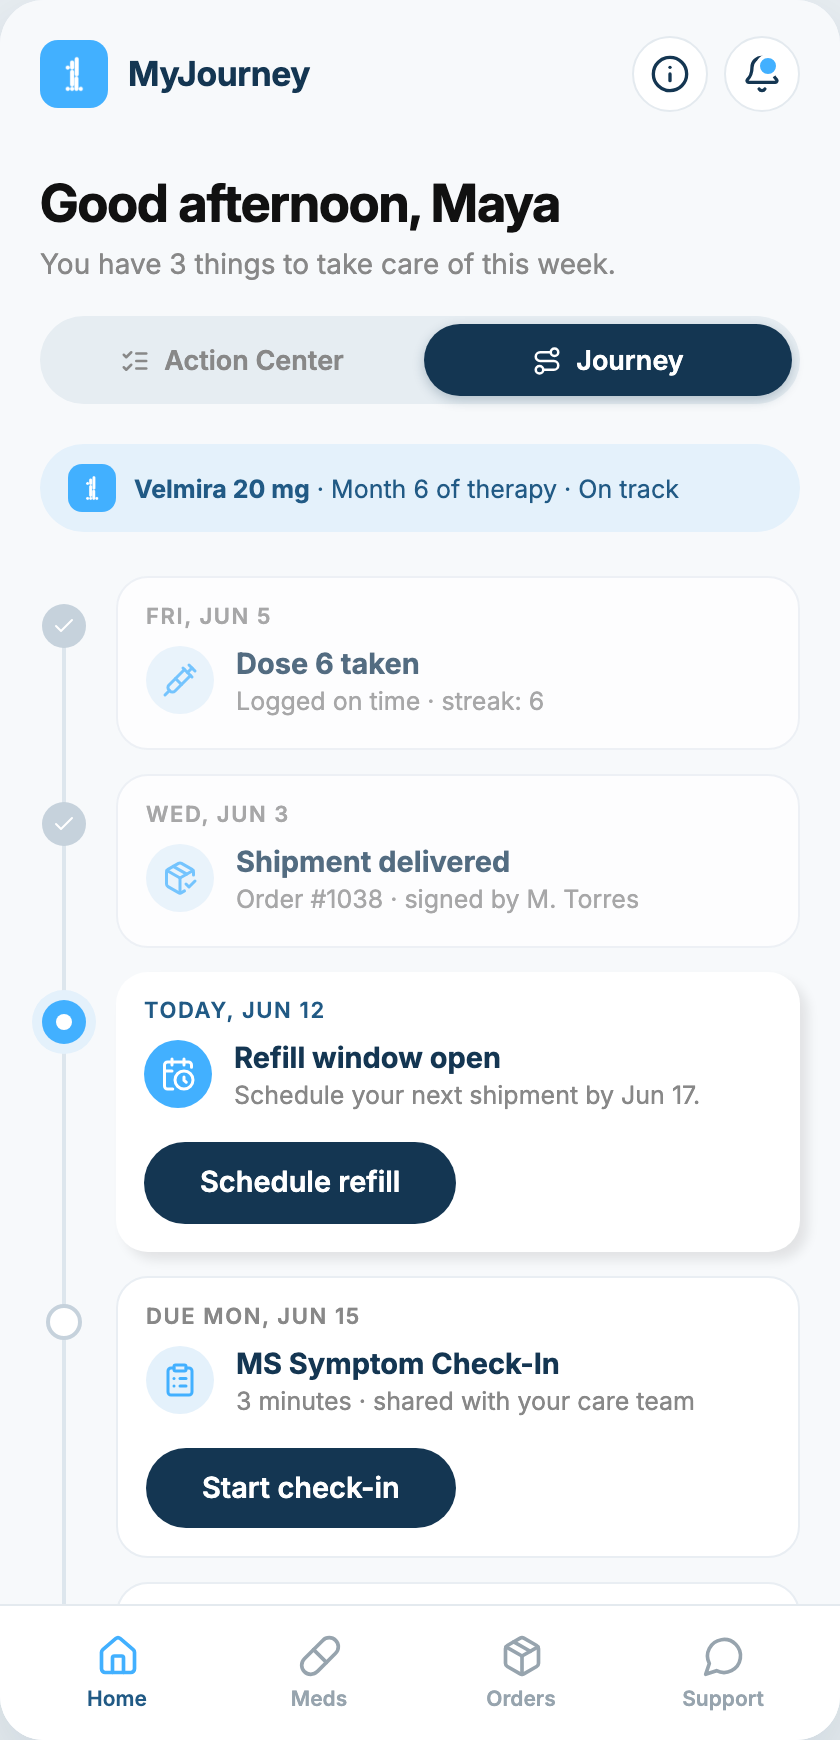
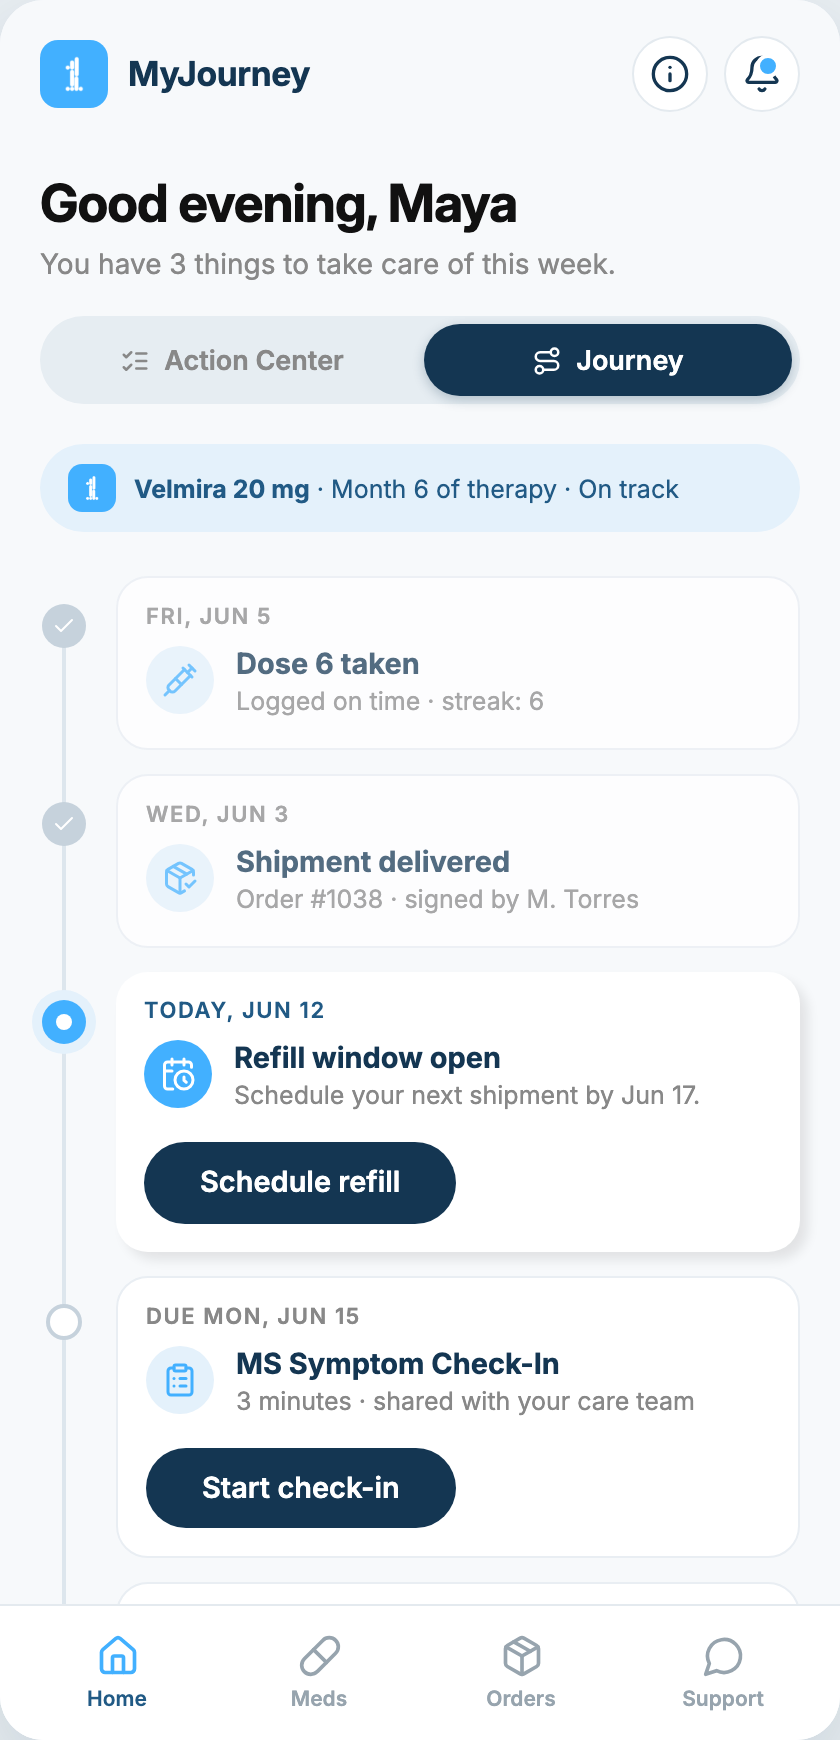
feat(notifications): the bell dot now opens a notifications sheet
A badge on a button is a promise. Tapping the bell lists the open
items behind the dot, each deep-linking to its flow, with an
all-caught-up state once the list is clear.

Changed region(s): [[0.2167, 0.0931, 0.681, 0.1552]]

diff --git a/src/flows/NotificationsSheet.tsx b/src/flows/NotificationsSheet.tsx
@@ -1,0 +1,75 @@
+import { cal } from "../lib/calendar";
+import type { NavTarget } from "../lib/nav";
+import { useMJ } from "../store/store";
+import { Ic, type IconName } from "../components/Ic";
+
+interface NotificationsSheetProps {
+  onClose: () => void;
+  /** Close the sheet and jump to the item's flow. */
+  onOpen: (target: NavTarget) => void;
+}
+
+/* The bell dot promises something behind it — this sheet is that something:
+   the open items, each one tap away from its flow. */
+export function NotificationsSheet({ onClose, onOpen }: NotificationsSheetProps) {
+  const s = useMJ();
+
+  const items: { icon: IconName; title: string; sub: string; target: NavTarget }[] = [];
+  if (!s.refill.scheduled) {
+    items.push({
+      icon: "calendar-clock",
+      title: "Refill window open",
+      sub: `Schedule by ${cal.scheduleBy} to stay on track`,
+      target: "refill",
+    });
+  }
+  if (!s.tasks.checkin) {
+    items.push({
+      icon: "clipboard-list",
+      title: "MS Symptom Check-In",
+      sub: `Due ${cal.checkinDue} · 3 min`,
+      target: "checkin",
+    });
+  }
+  if (!s.tasks.copay) {
+    items.push({
+      icon: "credit-card",
+      title: "Co-pay assistance renewal",
+      sub: `Expires ${cal.copayExpires} · keeps your co-pay at $0`,
+      target: "copay",
+    });
+  }
+
+  return (
+    <div className="mj-sheetwrap" onClick={onClose}>
+      <div className="mj-sheet" onClick={(e) => e.stopPropagation()}>
+        <div className="mj-sheethandle" />
+        <button type="button" className="mj-sheetclose" onClick={onClose} aria-label="Close">
+          <Ic name="x" size={18} color="var(--oj-navy)" />
+        </button>
+        <h3 className="mj-sheettitle">Notifications</h3>
+        {items.length > 0 ? (
+          <div className="mj-stack" style={{ marginBottom: 6 }}>
+            {items.map((it) => (
+              <button key={it.target} type="button" className="mj-taskcard tap" onClick={() => onOpen(it.target)}>
+                <span className="mj-taskicon">
+                  <Ic name={it.icon} size={20} color="#fff" />
+                </span>
+                <div className="mj-taskmeta">
+                  <p className="mj-tasktitle">{it.title}</p>
+                  <p className="mj-tasksub">{it.sub}</p>
+                </div>
+                <Ic name="chevron-right" size={18} color="var(--oj-gray)" />
+              </button>
+            ))}
+          </div>
+        ) : (
+          <div className="mj-alldone" style={{ marginBottom: 6 }}>
+            <Ic name="circle-check" size={18} color="var(--oj-blue)" />
+            <span>You&rsquo;re all caught up. Next dose {cal.nextDose}.</span>
+          </div>
+        )}
+      </div>
+    </div>
+  );
+}

diff --git a/src/App.tsx b/src/App.tsx
@@ -10,10 +10,12 @@ import { RefillFlow } from "./flows/RefillFlow";
 import { CheckinFlow } from "./flows/CheckinFlow";
 import { CopaySheet } from "./flows/CopaySheet";
 import { AboutOverlay } from "./flows/AboutOverlay";
+import { NotificationsSheet } from "./flows/NotificationsSheet";
 
 export default function App() {
   const [route, setRoute] = useState<Route>("home");
   const [showCopay, setShowCopay] = useState(false);
+  const [showNotifs, setShowNotifs] = useState(false);
   // The About overlay is the demo's introduction: open it on first visit.
   const [showAbout, setShowAbout] = useState(() => !store.get().aboutSeen);
   const [toast, setToast] = useState<string | null>(null);
@@ -34,6 +36,12 @@ export default function App() {
   }
 
   const onInfo = () => setShowAbout(true);
+  const onBell = () => setShowNotifs(true);
+
+  function openFromNotifs(target: NavTarget) {
+    setShowNotifs(false);
+    navigate(target);
+  }
 
   function closeAbout() {
     store.set({ aboutSeen: true });
@@ -52,13 +60,14 @@ export default function App() {
     <div className="mj-frame">
       {/* key remounts the screen per route: scroll resets and the fade-in replays */}
       <div className="mj-device" key={route}>
-        {route === "home" && <HomeScreen navigate={navigate} onInfo={onInfo} />}
+        {route === "home" && <HomeScreen navigate={navigate} onInfo={onInfo} onBell={onBell} />}
         {route === "refill" && <RefillFlow navigate={navigate} />}
         {route === "checkin" && <CheckinFlow navigate={navigate} />}
-        {route === "meds" && <MedsScreen navigate={navigate} onInfo={onInfo} />}
-        {route === "orders" && <OrdersScreen navigate={navigate} onInfo={onInfo} />}
-        {route === "support" && <SupportScreen navigate={navigate} onInfo={onInfo} />}
+        {route === "meds" && <MedsScreen navigate={navigate} onInfo={onInfo} onBell={onBell} />}
+        {route === "orders" && <OrdersScreen navigate={navigate} onInfo={onInfo} onBell={onBell} />}
+        {route === "support" && <SupportScreen navigate={navigate} onInfo={onInfo} onBell={onBell} />}
         {showCopay && <CopaySheet onClose={() => setShowCopay(false)} />}
+        {showNotifs && <NotificationsSheet onClose={() => setShowNotifs(false)} onOpen={openFromNotifs} />}
         {showAbout && <AboutOverlay onClose={closeAbout} onReset={resetDemo} />}
         {toast && (
           <div className="mj-toast" role="status">

diff --git a/e2e/app.spec.ts b/e2e/app.spec.ts
@@ -117,6 +117,17 @@ test("completing all three tasks clears the bell and shows all caught up", async
   await expect(page.locator(".mj-bell-dot")).toHaveCount(0);
   await expect(page.locator(".mj-alldone")).toContainText(`Next dose ${label(8)}`);
   await expect(page.locator(".mj-greet-sub")).toContainText("Nothing needs your attention");
+  // The bell still answers, even with nothing left to do.
+  await page.getByRole("button", { name: "Notifications" }).click();
+  await expect(page.locator(".mj-sheetwrap")).toContainText("all caught up");
+});
+
+test("bell opens notifications and deep-links to a task", async ({ page }) => {
+  await page.getByRole("button", { name: "Notifications" }).click();
+  await expect(page.getByRole("heading", { name: "Notifications" })).toBeVisible();
+  await expect(page.locator(".mj-sheetwrap .mj-taskcard")).toHaveCount(3);
+  await page.locator(".mj-sheetwrap").getByText("MS Symptom Check-In").click();
+  await expect(page.getByText("Question 1 of 4")).toBeVisible();
 });
 
 test("state survives a reload", async ({ page }) => {

diff --git a/src/components/AppBar.tsx b/src/components/AppBar.tsx
@@ -2,7 +2,7 @@ import { openTaskCount, useMJ } from "../store/store";
 import { Ic } from "./Ic";
 import mark from "../assets/mark.png";
 
-export function AppBar({ onInfo }: { onInfo: () => void }) {
+export function AppBar({ onInfo, onBell }: { onInfo: () => void; onBell: () => void }) {
   const s = useMJ();
   const open = openTaskCount(s);
   return (
@@ -17,7 +17,7 @@ export function AppBar({ onInfo }: { onInfo: () => void }) {
         <button className="mj-bell" type="button" aria-label="About this prototype" onClick={onInfo}>
           <Ic name="info" size={20} color="var(--oj-navy)" />
         </button>
-        <button className="mj-bell" type="button" aria-label="Notifications">
+        <button className="mj-bell" type="button" aria-label="Notifications" onClick={onBell}>
           <Ic name="bell" size={20} color="var(--oj-navy)" />
           {open > 0 && <span className="mj-bell-dot" />}
         </button>

diff --git a/src/screens/HomeScreen.tsx b/src/screens/HomeScreen.tsx
@@ -256,12 +256,12 @@ function JourneyHome({ navigate }: { navigate: Navigate }) {
   );
 }
 
-export function HomeScreen({ navigate, onInfo }: { navigate: Navigate; onInfo: () => void }) {
+export function HomeScreen({ navigate, onInfo, onBell }: { navigate: Navigate; onInfo: () => void; onBell: () => void }) {
   const s = useMJ();
   const open = openTaskCount(s);
   return (
     <div className="mj-screen">
-      <AppBar onInfo={onInfo} />
+      <AppBar onInfo={onInfo} onBell={onBell} />
       <div className="mj-body scroll">
         <h1 className="mj-greet">{greeting()}, Maya</h1>
         <p className="mj-greet-sub">

diff --git a/src/screens/MedsScreen.tsx b/src/screens/MedsScreen.tsx
@@ -7,7 +7,7 @@ import { Ic } from "../components/Ic";
 import { Ring } from "../components/Ring";
 import { SectionLabel } from "../components/SectionLabel";
 
-export function MedsScreen({ navigate, onInfo }: { navigate: Navigate; onInfo: () => void }) {
+export function MedsScreen({ navigate, onInfo, onBell }: { navigate: Navigate; onInfo: () => void; onBell: () => void }) {
   const s = useMJ();
   const doseHistory: [string, string, string][] = [
     ["Dose 6", cal.dose6, "On time"],
@@ -17,7 +17,7 @@ export function MedsScreen({ navigate, onInfo }: { navigate: Navigate; onInfo: (
   ];
   return (
     <div className="mj-screen">
-      <AppBar onInfo={onInfo} />
+      <AppBar onInfo={onInfo} onBell={onBell} />
       <div className="mj-body scroll">
         <h1 className="mj-greet">Medications</h1>
         <p className="mj-greet-sub">Managed by ONE Journey Specialty Pharmacy</p>

diff --git a/src/screens/OrdersScreen.tsx b/src/screens/OrdersScreen.tsx
@@ -7,7 +7,7 @@ import { Ic } from "../components/Ic";
 import { SectionLabel } from "../components/SectionLabel";
 import { Stepper } from "../components/Stepper";
 
-export function OrdersScreen({ navigate, onInfo }: { navigate: Navigate; onInfo: () => void }) {
+export function OrdersScreen({ navigate, onInfo, onBell }: { navigate: Navigate; onInfo: () => void; onBell: () => void }) {
   const s = useMJ();
   const history: [string, string, string][] = [
     ["#1038", "Delivered " + cal.delivered1038, "Signed by M. Torres"],
@@ -16,7 +16,7 @@ export function OrdersScreen({ navigate, onInfo }: { navigate: Navigate; onInfo:
   ];
   return (
     <div className="mj-screen">
-      <AppBar onInfo={onInfo} />
+      <AppBar onInfo={onInfo} onBell={onBell} />
       <div className="mj-body scroll">
         <h1 className="mj-greet">Orders</h1>
         <p className="mj-greet-sub">Shipments from ONE Journey Specialty Pharmacy</p>

diff --git a/src/screens/SupportScreen.tsx b/src/screens/SupportScreen.tsx
@@ -5,7 +5,7 @@ import { AppBar } from "../components/AppBar";
 import { BottomNav } from "../components/BottomNav";
 import { Ic } from "../components/Ic";
 
-export function SupportScreen({ navigate, onInfo }: { navigate: Navigate; onInfo: () => void }) {
+export function SupportScreen({ navigate, onInfo, onBell }: { navigate: Navigate; onInfo: () => void; onBell: () => void }) {
   const s = useMJ();
   const [draft, setDraft] = useState("");
   const threadRef = useRef<HTMLDivElement>(null);
@@ -37,7 +37,7 @@ export function SupportScreen({ navigate, onInfo }: { navigate: Navigate; onInfo
 
   return (
     <div className="mj-screen">
-      <AppBar onInfo={onInfo} />
+      <AppBar onInfo={onInfo} onBell={onBell} />
       <div className="mj-supporthead">
         <span className="mj-pharmavatar lg">
           <Ic name="user-round" size={22} color="#fff" />